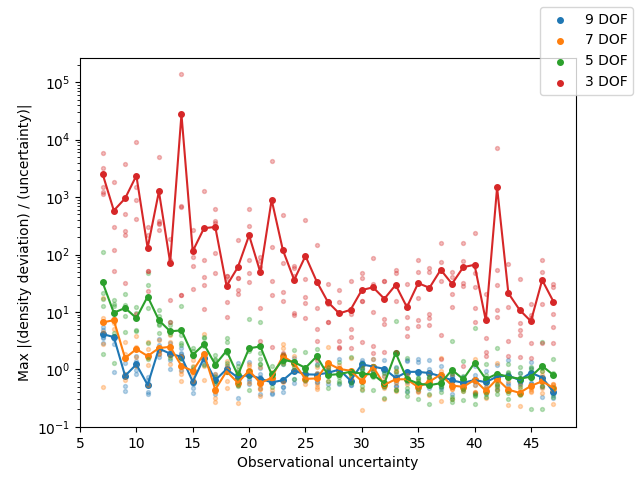
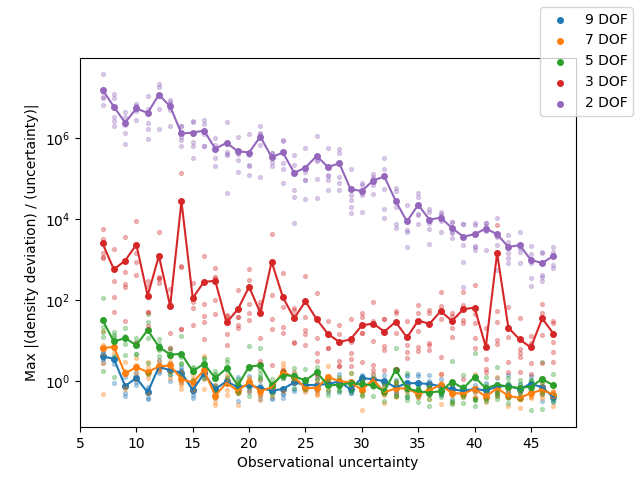
Fixed bug with dof-2 in dof-scan

diff --git a/code/thresholds/fe/dof-scan/dof-scan.py b/code/thresholds/fe/dof-scan/dof-scan.py
@@ -98,7 +98,7 @@ def get_unc_for_file(dname, fname):
     # fname ends with -0-samples.npy
     with open(fname, 'rb') as f:
         array = np.load(f)
-        if len(array) == 0: return np.nan
+        if len(array) == 0: return np.nan, np.nan, np.nan
     
         # flat_samples = array.reshape(-1, array.shape[-1])
 
@@ -157,7 +157,7 @@ def get_unc_for_file(dname, fname):
             repeat_num += 1
         if repeat_num == MAX_REPEAT_COUNT:
             # Give up
-            return np.nan
+            return np.nan, np.nan, np.nan
 
     density_uncertainty = np.nanmedian(uncs)
     mean_dev_ratio = np.mean(np.abs(deviation / uncs))

diff --git a/code/density/finite-element/main.py b/code/density/finite-element/main.py
@@ -393,11 +393,11 @@ def pipeline(name, sample_path, indicator, surface_am, division, max_radius, map
     asteroid_info = load(name, asteroid, surface_am, sample_path, division, generate)
 
     if asteroid_info is None:
-        return np.nan
+        return np.nan, np.nan
     
     means, unc = get_densities_mcmc(name+"-fe", asteroid_info, generate)
     if np.any(np.isnan(unc)):
-        return np.nan
+        return np.nan, np.nan
 
     if map:
         densities, uncertainty_ratios = get_map(asteroid_info, means, unc, asteroid)
